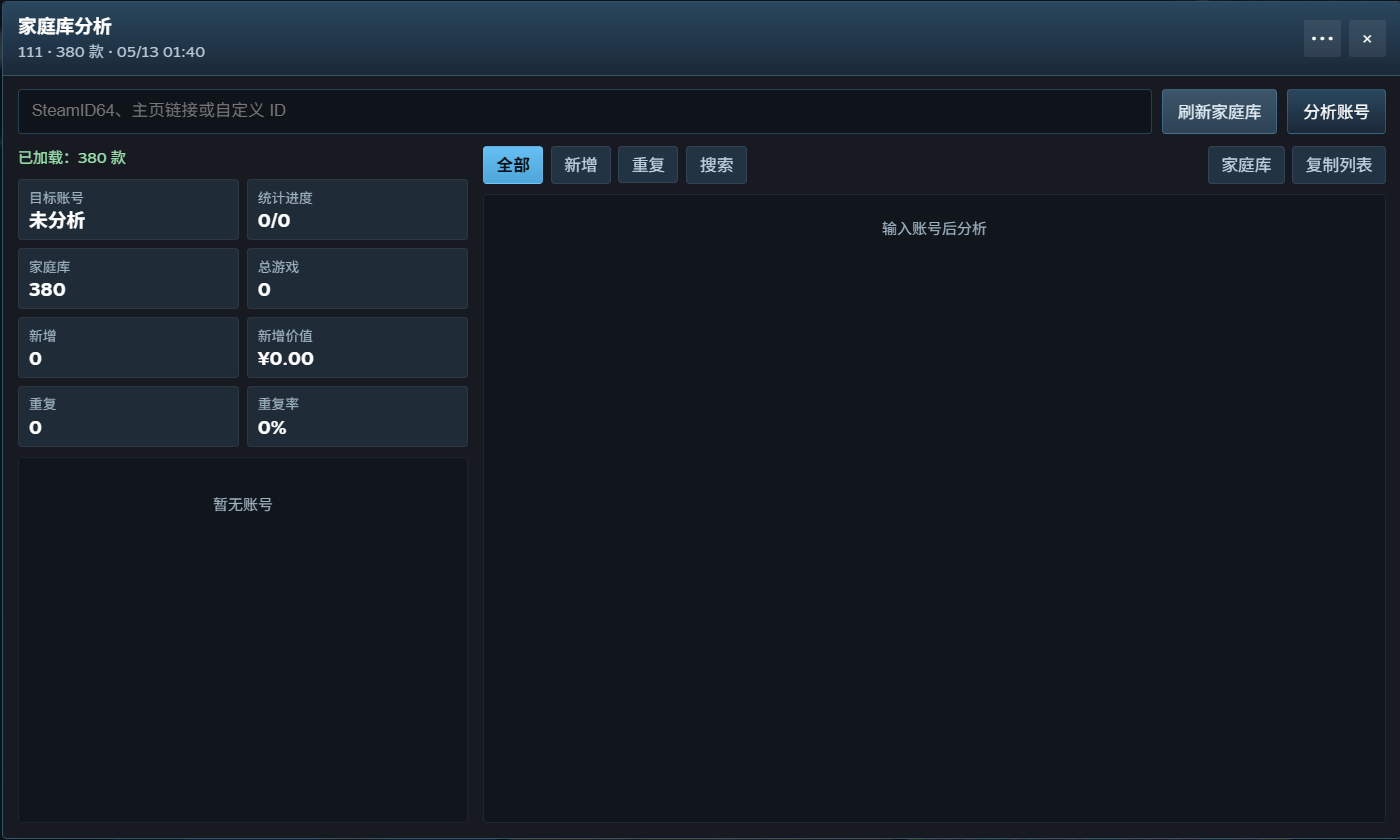
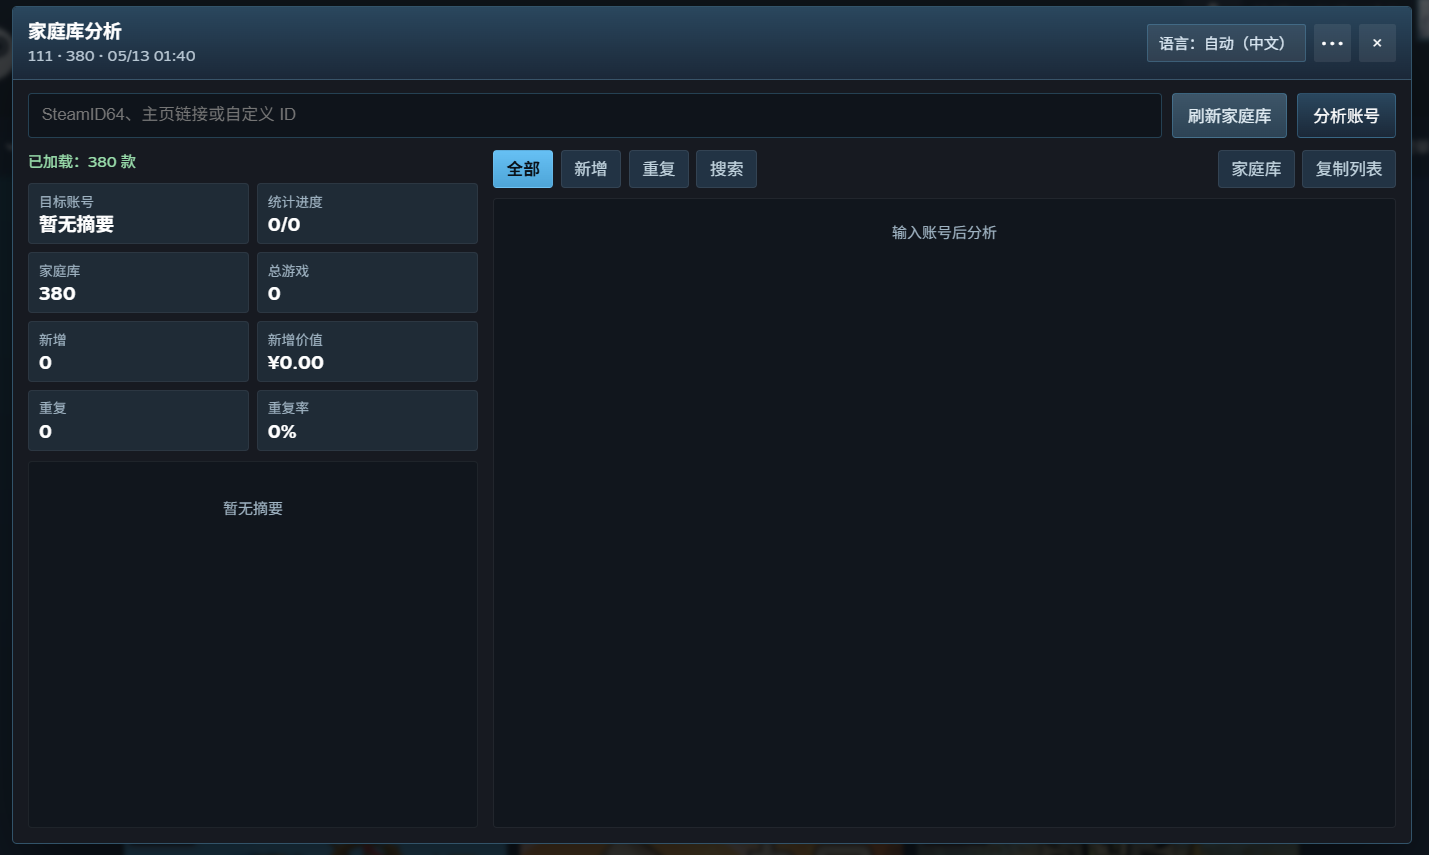
docs: 更新文档和截图资源
1. 替换本地截图为远程链接
2. 删除旧的Greasy Fork说明文档
3. 新增英文README文档

diff --git a/README.en.md b/README.en.md
@@ -1,0 +1,66 @@
+# Steam Family Library Analyzer
+
+A Tampermonkey userscript that analyzes a public Steam account against the Steam Family shared library of your currently signed-in Steam account. It helps estimate added games, duplicate games, and the original-price value of the added library.
+
+## Screenshot
+
+![Steam Family Library Analyzer screenshot](https://raw.githubusercontent.com/iMoonDay/steam-family-fit-analyzer/main/ScreenShot.en.png)
+
+## Features
+
+- Reads the Steam Family shared library of the current account.
+- Supports SteamID64, `/profiles/<steamid64>`, `/id/<custom>`, and vanity names.
+- Auto-fills the current profile account on `steamcommunity.com/profiles/<steamid64>` pages.
+- Shows total games, family library size, progress, added games, duplicates, duplicate rate, and added value.
+- Provides All, Family library, Added, Duplicates, and Search lists.
+- Only counts games that support Steam Family Sharing.
+- Shows original prices for added games according to the current store region.
+- The UI follows the current Steam page language by default, can be changed from the top-right language switcher, and formats money according to the store region.
+- Supports sortable table headers, search, copying the current list, copying the report, and viewing raw response data.
+- Supports automatic background refresh of the family library every 24 hours. This can be disabled from the menu.
+
+## Installation
+
+1. Install Tampermonkey.
+2. Open the Greasy Fork install page:
+   <https://greasyfork.org/zh-CN/scripts/577825-steam-%E5%AE%B6%E5%BA%AD%E5%BA%93%E5%88%86%E6%9E%90%E5%99%A8>
+3. Confirm installation in the Tampermonkey install page.
+
+You can also install directly from GitHub:
+
+1. Open the script file:
+   <https://github.com/iMoonDay/steam-family-fit-analyzer/raw/main/script.user.js>
+2. Confirm installation in the Tampermonkey install page.
+
+## Usage
+
+1. Sign in to Steam on the web.
+2. Open `https://store.steampowered.com/` or any `https://steamcommunity.com/profiles/<steamid64>` page.
+3. Click the "Family Analyzer" button on the right side of the page.
+4. Click "Refresh family library" first.
+5. Enter the public Steam account you want to analyze, then click "Analyze account".
+
+## Notes
+
+- The target account's game details must be public, otherwise the full library cannot be read.
+- Added value uses original prices in the current store region and does not use current discount prices.
+- Money is formatted according to the store region.
+- Free, unpriced, delisted, or region-unavailable games are shown as `N/A`.
+- The script does not bypass Steam privacy restrictions and does not require you to manually enter a Steam Web API key.
+
+## Configurable Constants
+
+The script keeps a few constants near the top that can be adjusted if needed:
+
+- `FALLBACK_STORE_CC`: Store region used when it cannot be detected automatically. Default: `CN`.
+- `FALLBACK_STORE_LANG`: Store language used when it cannot be detected automatically. Default: `schinese`.
+- `APP_LOCALE`: Default UI language mode. Default: `auto`, which follows the current Steam page language. Chinese and English are supported, and the language can also be changed from the top-right switcher.
+- `STORE_CACHE_TTL_MS`: Store item cache duration.
+- `ORIGINAL_PRICE_BATCH_SIZE`: Number of apps per original-price batch.
+- `SHAREABILITY_BATCH_SIZE`: Number of apps per Family Sharing support batch.
+- `STORE_REQUEST_DELAY_MS`: Delay between store requests.
+- `AUTO_FAMILY_REFRESH_INTERVAL_MS`: Automatic family library refresh interval.
+
+## License
+
+MIT License

diff --git a/README.md b/README.md
@@ -4,7 +4,7 @@
 
 ## 截图
 
-![Steam 家庭库分析器截图](./ScreenShot.png)
+![Steam 家庭库分析器截图](https://raw.githubusercontent.com/iMoonDay/steam-family-fit-analyzer/main/ScreenShot.png)
 
 ## 功能
 
